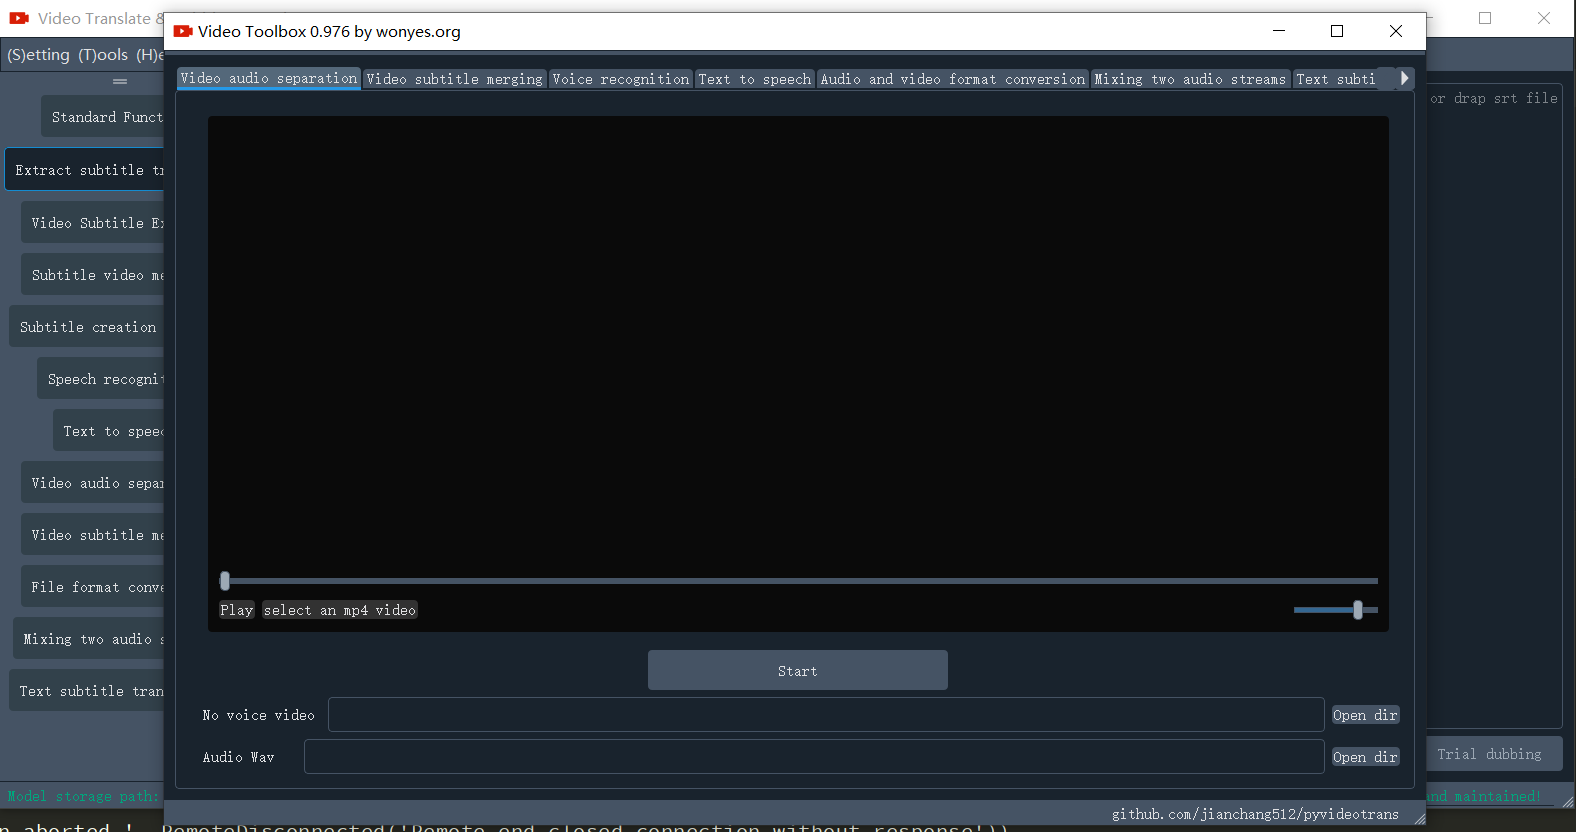
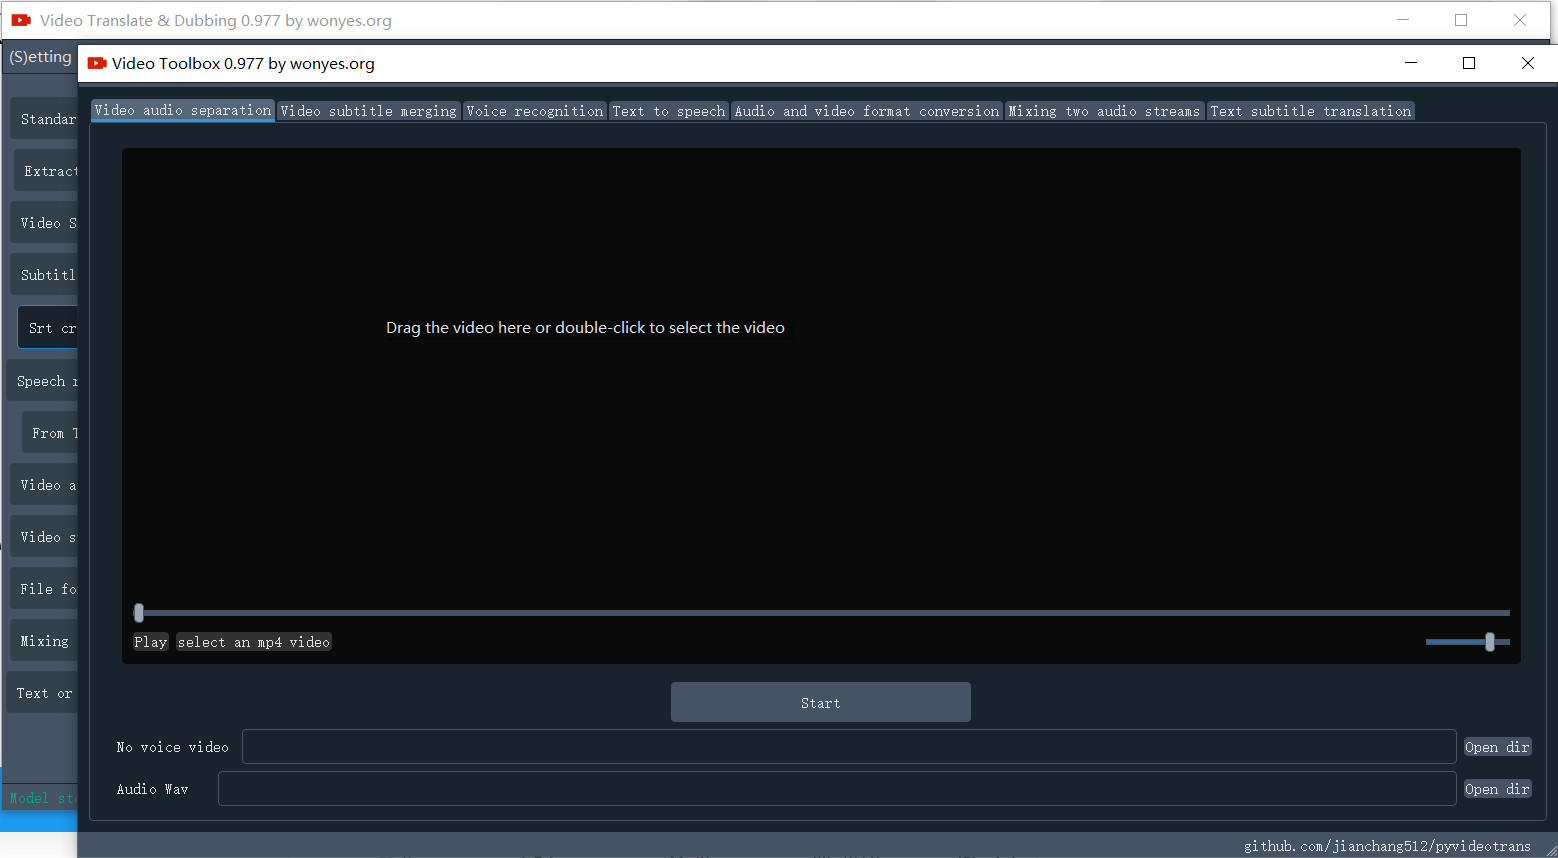
up

diff --git a/README.md b/README.md
@@ -172,10 +172,10 @@ If the installation is correct, the precompiled version can now be used with CUD
 
 ## Software Preview Screenshots
 
-![](./images/pen1.png?c)
-![](./images/pen2.png?c)
-![](./images/pen3.png?c)
-![](./images/pen4.png?c)
+![](./images/pen1.png?d)
+![](./images/pen2.png?d)
+![](./images/pen3.png?d)
+![](./images/pen4.png?d)
 
 ## Comparison of Videos Before and After
 
